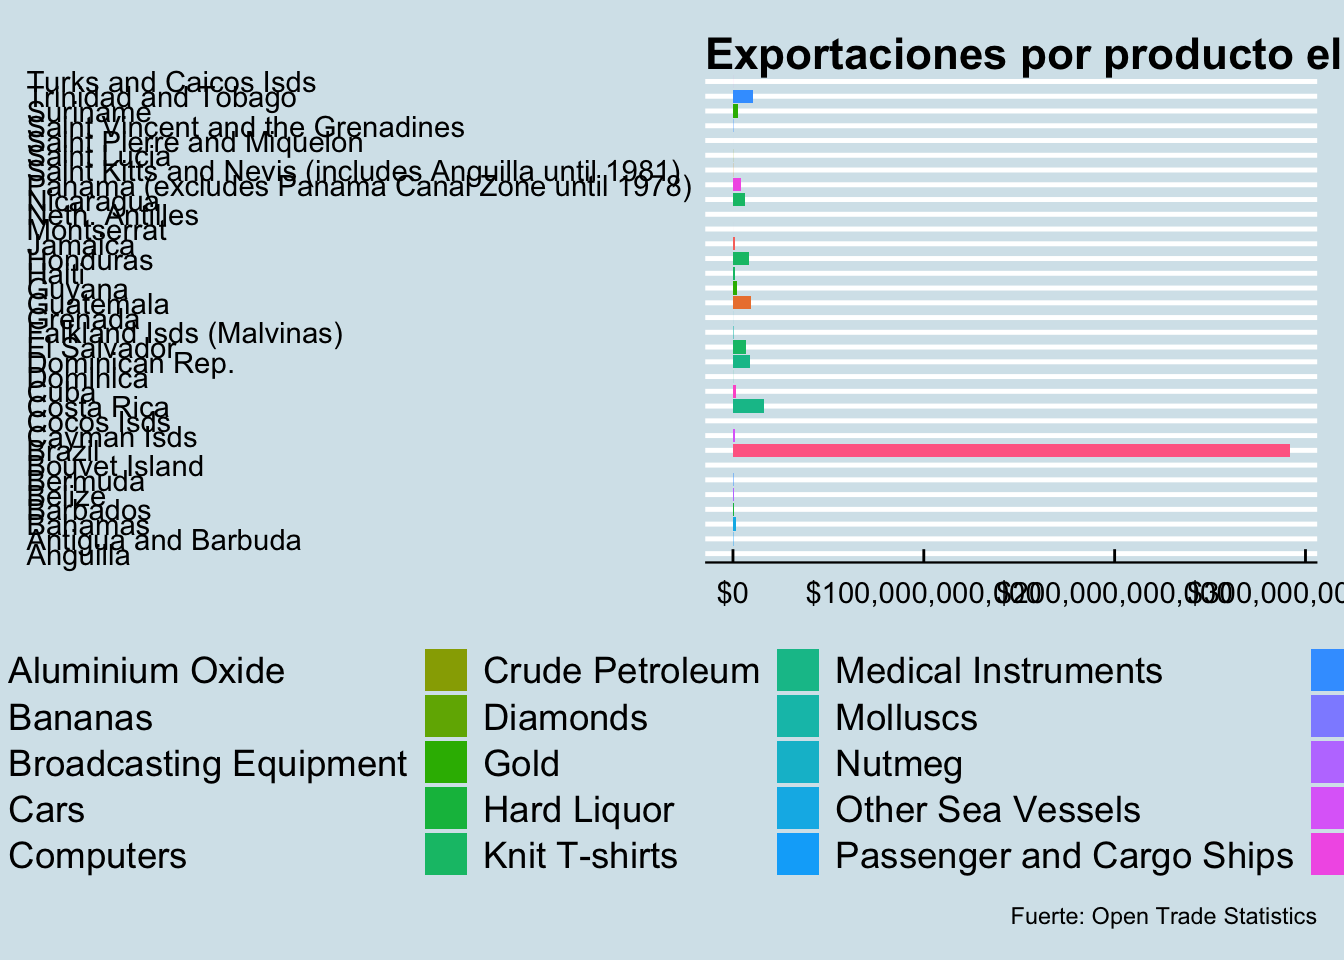
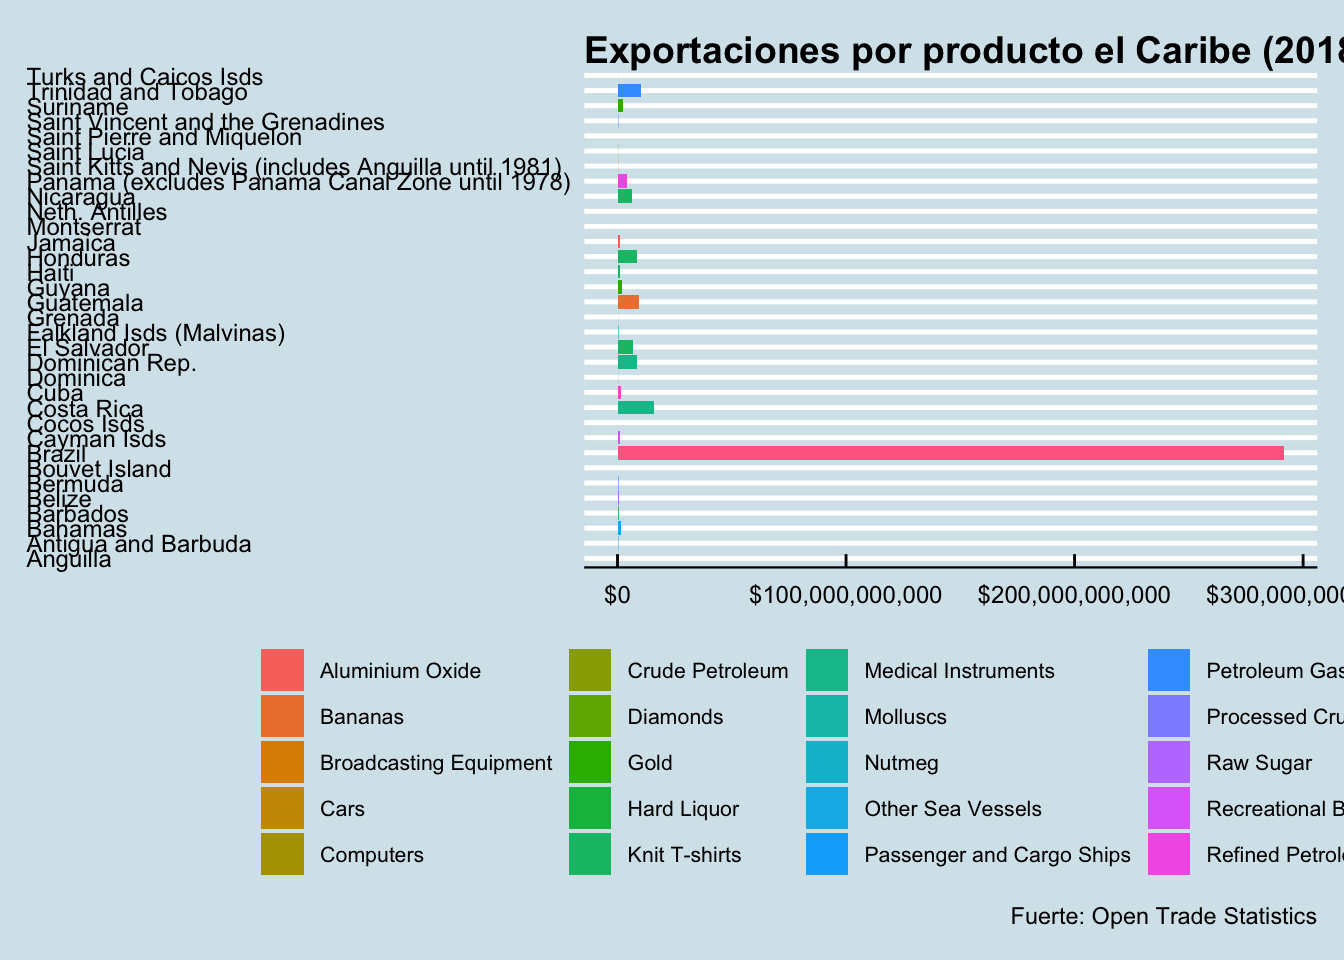
changes analisis historico

Changed region(s): [[0.0, 0.0312, 1.0, 0.9375]]

diff --git a/content/post/2021-01-09-export/index.html b/content/post/2021-01-09-export/index.html
@@ -118,7 +118,14 @@ mutate(reporter_fullname_english = fct_collapse(reporter_fullname_english,
     caption = &quot;Fuerte: Open Trade Statistics&quot;) +
   scale_y_continuous(labels = scales::dollar_format()) +
   theme_economist() +
-  theme(legend.position = &quot;bottom&quot;) +
+  theme(
+    plot.title = element_text(size = 14),
+    axis.text.x = element_text(size = 9),
+    axis.text.y = element_text(size=9,
+                               hjust = 0),
+    legend.text = element_text(size = 8),
+    legend.title = element_blank(),
+    legend.position = &quot;bottom&quot;) +
   coord_flip()
 
 latam_graph</code></pre>
@@ -140,7 +147,14 @@ latam_graph1 &lt;- ggplot(latam_reduced, aes(
     caption = &quot;Fuerte: Open Trade Statistics&quot;) +
   scale_y_continuous(labels = scales::dollar_format()) +
   theme_economist() +
-  theme(legend.position = &quot;bottom&quot;) +
+  theme(
+    plot.title = element_text(size = 14),
+    axis.text.x = element_text(size = 9),
+    axis.text.y = element_text(size=9,
+                               hjust = 0),
+    legend.text = element_text(size = 8),
+    legend.title = element_blank(),
+    legend.position = &quot;bottom&quot;) +
   coord_flip()
 
 latam_graph1</code></pre>
@@ -175,7 +189,14 @@ caribbean_graph &lt;- ggplot(comercio_caribbean, aes(
     caption = &quot;Fuerte: Open Trade Statistics&quot;) +
   scale_y_continuous(labels = scales::dollar_format()) +
   theme_economist() +
-  theme(legend.position = &quot;bottom&quot;) +
+  theme(
+    plot.title = element_text(size = 14),
+    axis.text.x = element_text(size = 9),
+    axis.text.y = element_text(size=9,
+                               hjust = 0),
+    legend.text = element_text(size = 8),
+    legend.title = element_blank(),
+    legend.position = &quot;bottom&quot;) +
   coord_flip()
 
 caribbean_graph</code></pre>
